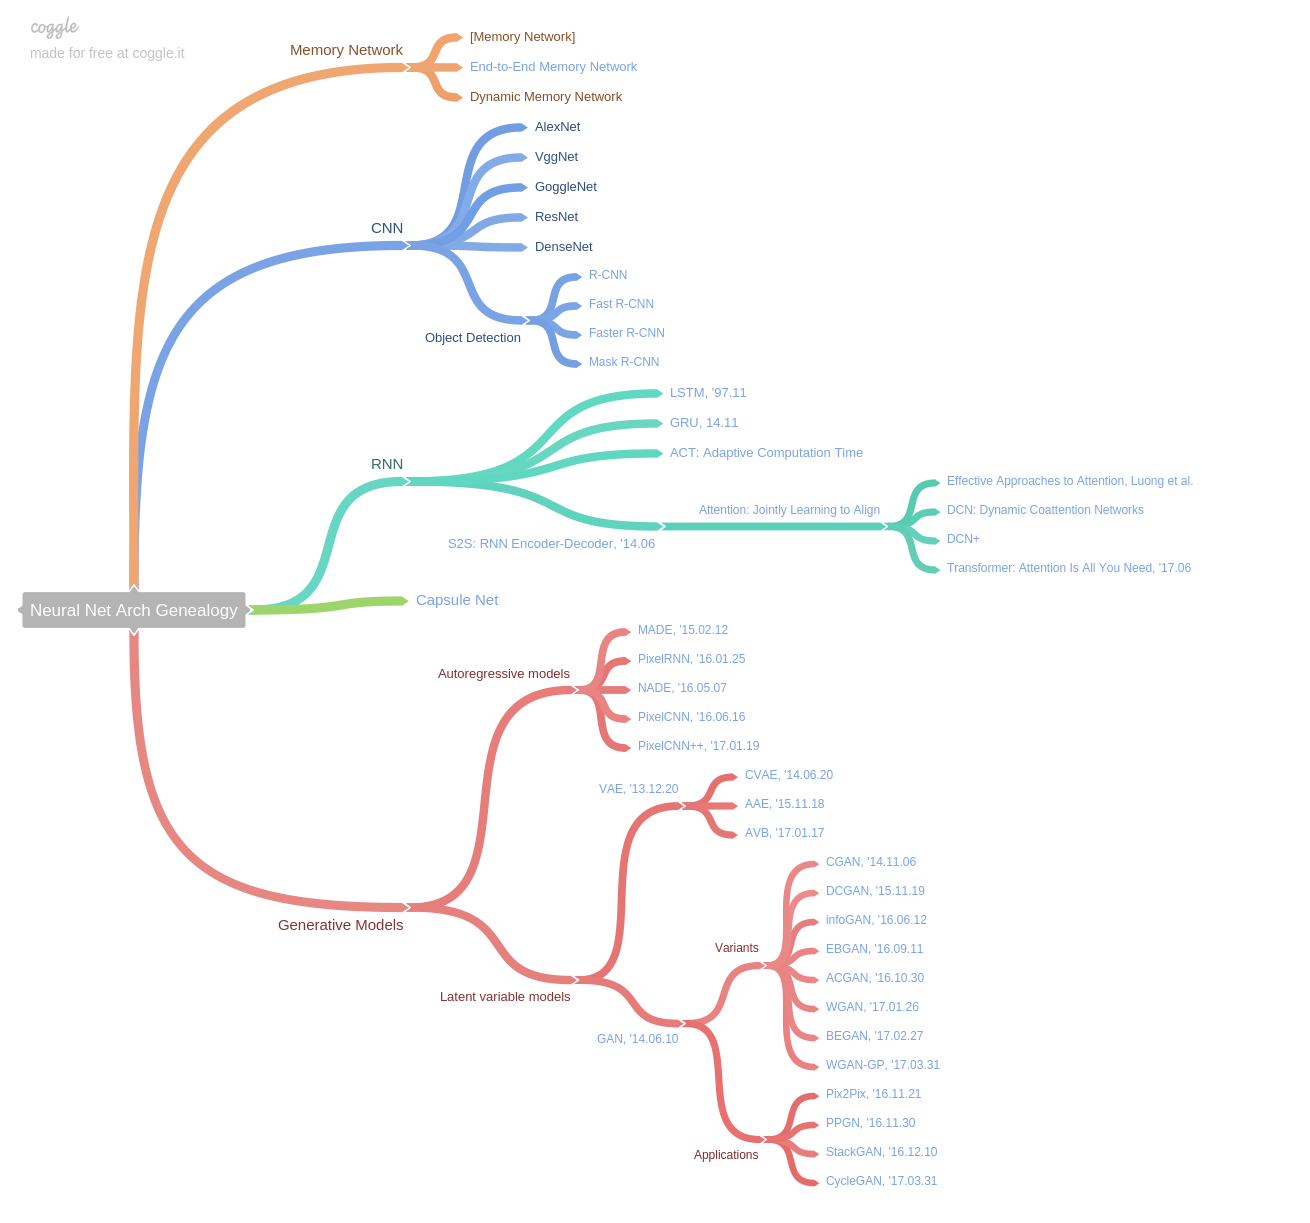
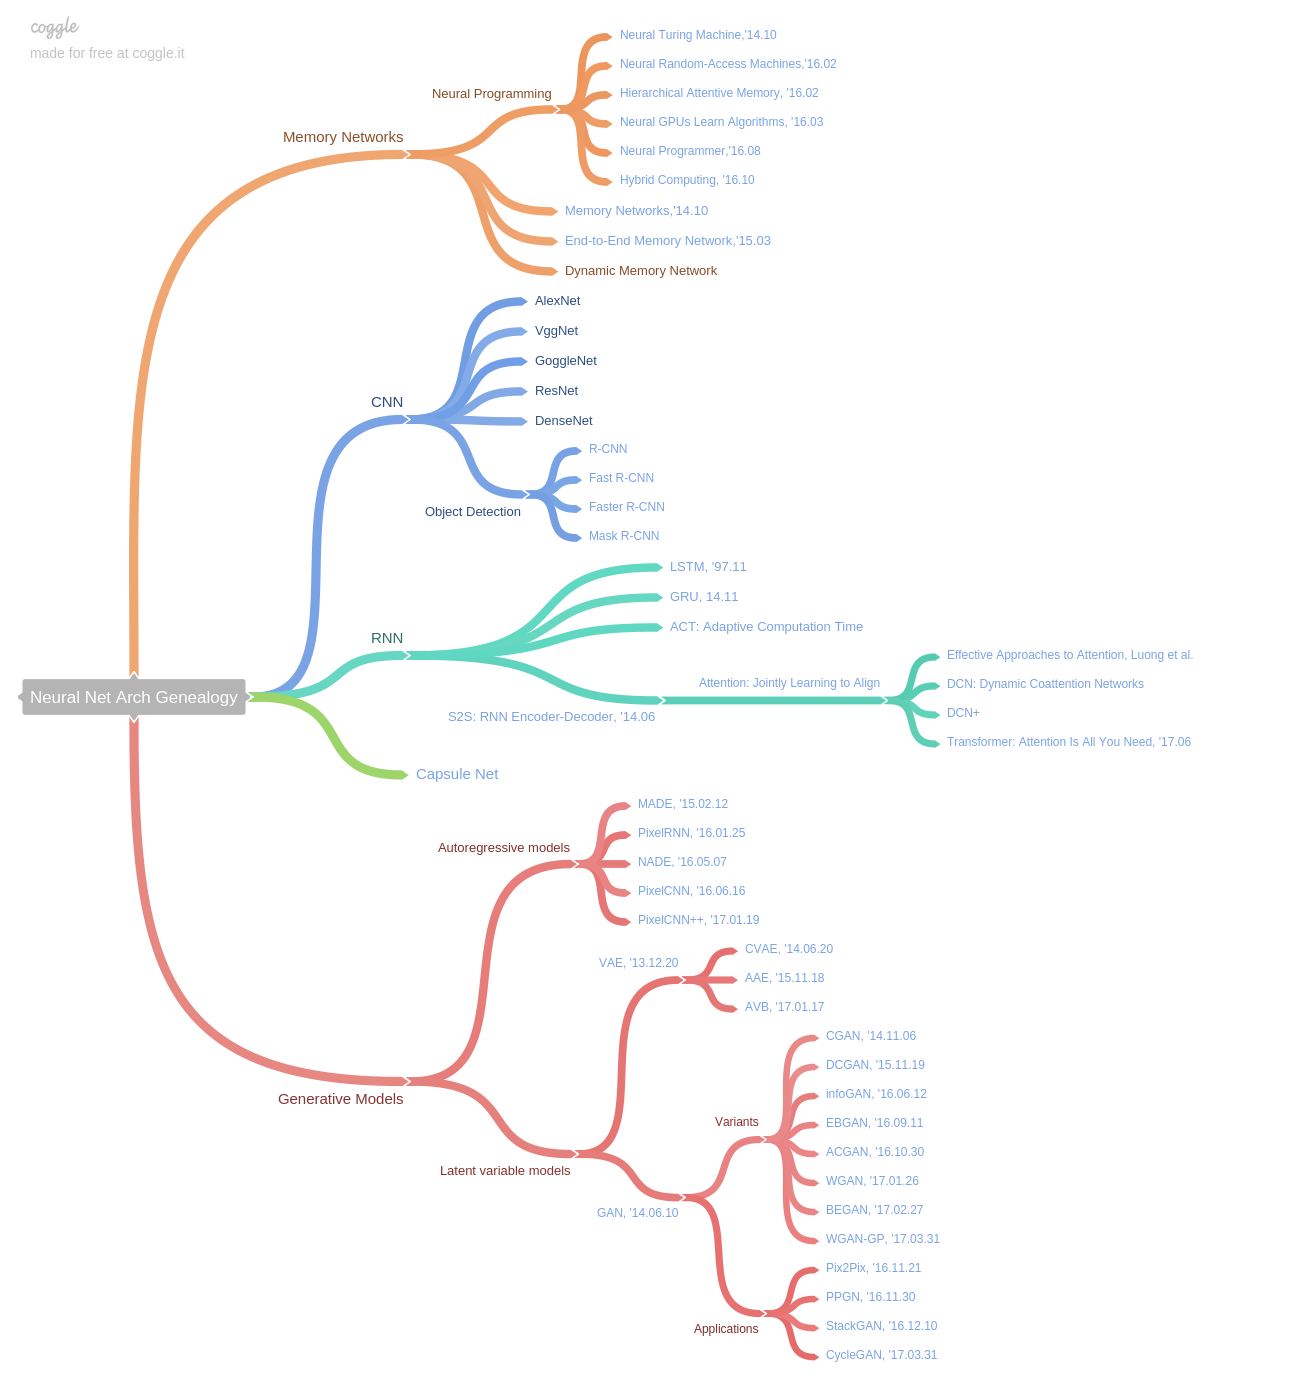
Updated

diff --git a/README.md b/README.md
@@ -4,9 +4,16 @@ There are so many new models and archtectures. If you find something inetresting
 https://coggle.it/diagram/Wf5mYoJbsgABUF9P
 ![https://coggle.it/diagram/Wf5mYoJbsgABUF9P](Neural_Net_Arch_Genealogy.png)
 ## Text Version
-* Memory Network
-  * [Memory Network]
-  *  [End-to-End Memory Network](https://arxiv.org/pdf/1503.08895.pdf)
+* Memory Networks
+  * Neural Programming
+    * [Neural Turing Machine,'14.10](https://arxiv.org/pdf/1410.5401.pdf)
+    * [Neural Random-Access Machines,'16.02](https://arxiv.org/pdf/1511.06392.pdf)
+    * [Hierarchical Attentive Memory, '16.02](https://arxiv.org/abs/1602.03218)
+    * [Neural GPUs Learn Algorithms, '16.03](https://arxiv.org/pdf/1511.08228.pdf)
+    * [Neural Programmer,'16.08](https://arxiv.org/pdf/1511.04834.pdf)
+    * [Hybrid Computing, '16.10](https://www.nature.com/nature/journal/v538/n7626/full/nature20101.html)
+  * [Memory Networks,'14.10](https://arxiv.org/abs/1410.3916)
+  *  [End-to-End Memory Network,'15.03](https://arxiv.org/pdf/1503.08895.pdf)
   * Dynamic Memory Network
 * CNN
   * AlexNet
@@ -29,7 +36,7 @@ https://coggle.it/diagram/Wf5mYoJbsgABUF9P
       * [DCN: Dynamic Coattention Networks](https://arxiv.org/abs/1611.01604)
       * [DCN+](https://arxiv.org/abs/1711.00106)
       * [Transformer: Attention Is All You Need, '17.06](https://arxiv.org/abs/1706.03762)
-* [Capsule Net](https://example.com)
+* [Capsule Net](https://arxiv.org/abs/1710.09829)
 * Generative Models
   * Autoregressive models
     * [MADE, '15.02.12](https://arxiv.org/pdf/1502.03509.pdf)
